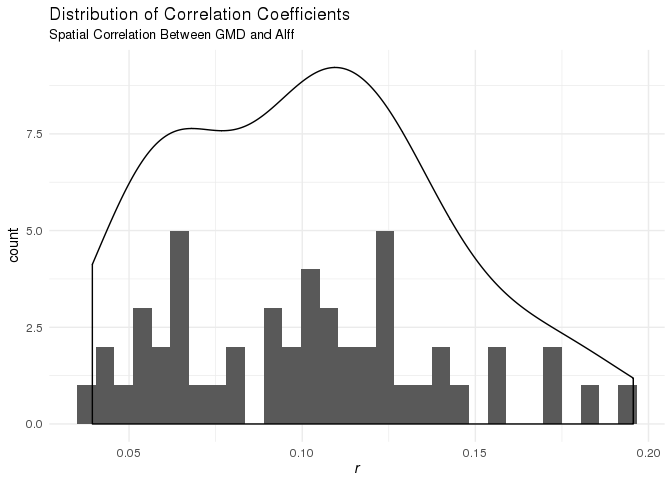
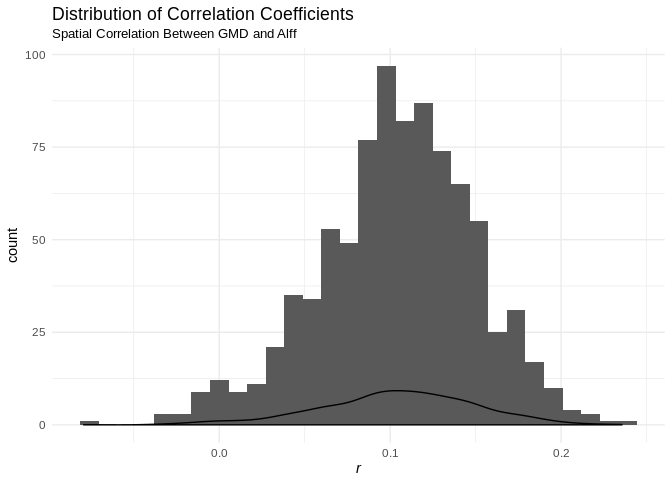
spin

diff --git a/code/Correlations/DensityPlots.md b/code/Correlations/DensityPlots.md
@@ -3,7 +3,7 @@ Spatial Correlation Density Plots
 Tinashe M. Tapera
 2018-02-05
 
-``` {.r}
+``` r
 suppressPackageStartupMessages({
   library(tidyr, quietly = TRUE)
   library(dplyr, quietly = TRUE)
@@ -15,25 +15,8 @@ suppressPackageStartupMessages({
   library(purrr, quietly = TRUE)
   library(ggpubr, quietly = TRUE)
 })
-```
-
-    ## Warning in .doLoadActions(where, attach): trying to execute load actions
-    ## without 'methods' package
-
-    ## Warning: replacing previous import by 'methods::slot<-' when loading
-    ## 'oro.nifti'
-
-    ## Warning: replacing previous import by 'methods::as' when loading
-    ## 'oro.nifti'
-
-    ## Warning: replacing previous import by 'methods::slotNames' when loading
-    ## 'oro.nifti'
-
-    ## Warning: package 'ggpubr' was built under R version 3.4.1
-
-``` {.r}
 set.seed(1000)
-SAMPLE <- TRUE # sample the full data if memory is limited e.g. not in qsub
+SAMPLE <- FALSE # sample the full data if memory is limited e.g. not in qsub
 ```
 
 Introduction
@@ -41,7 +24,7 @@ Introduction
 
 Here we visualise the relationship between GMD values and CBF, Alff, and Reho in the PNC sample for ISLA. We append to the previous work by calculating spatial correlation per participant and then plotting the distribution of these correlation coefficients. First, how to load the images and calculate spatial correlation.
 
-``` {.r}
+``` r
 # relevant paths
 gmd_path <- file.path("/data/joy/BBL/studies/pnc/n1601_dataFreeze/neuroimaging/t1struct/voxelwiseMaps_gmd")
 cbf_path <- file.path("/data/joy/BBL/studies/pnc/n1601_dataFreeze/neuroimaging/asl/voxelwiseMaps_cbf")
@@ -69,7 +52,7 @@ cbf_example <-
 
 Here we use the script `spatialcorr.sh` to calculate the spatial correlation for a participant's two images.
 
-``` {.r}
+``` r
 spatial_corr_script <- "/data/jux/BBL/projects/isla/code/Correlations/spatialcorr.sh"
 system(sprintf("%s %s %s %s",
   spatial_corr_script,
@@ -83,7 +66,7 @@ system(sprintf("%s %s %s %s",
 
 We can wrap this in an internal function like so:
 
-``` {.r}
+``` r
 calculate_spatial_corr <- function(img1_path, img2_path, mask_path){
 
   spatial_corr_script <- "/data/jux/BBL/projects/isla/code/Correlations/spatialcorr.sh"
@@ -103,12 +86,12 @@ calculate_spatial_corr(cbf_example$path, gmd_example$path, mask_path)
 
     ## [1] 0.2599
 
-GMD\~CBF
-========
+GMD~CBF
+=======
 
 We calculate the spatial correlation per participant between GMD and CBF.
 
-``` {.r}
+``` r
 # use the cbf sample
 cbf_sample <- read.csv("/data/jux/BBL/projects/isla/data/cbfSample.csv") %>%
   select(-X) %>%
@@ -151,7 +134,7 @@ gmd_cbf <- cbf_images %>%
 Plot
 ----
 
-``` {.r}
+``` r
 gmd_cbf %>%
   ggplot(aes(cor_coef)) +
     geom_histogram() +
@@ -167,12 +150,12 @@ gmd_cbf %>%
 
 ![](DensityPlots_files/figure-markdown_github/plot%20cbf-1.png)
 
-GMD\~Alff
-=========
+GMD~Alff
+========
 
 Now the correlation between GMD and Alff
 
-``` {.r}
+``` r
 # use the rest sample
 rest_sample <- read.csv("/data/jux/BBL/projects/isla/data/restSample.csv") %>%
   select(-X) %>%
@@ -217,7 +200,7 @@ gmd_alff <- alff_images %>%
 Plot
 ----
 
-``` {.r}
+``` r
 gmd_alff %>%
   ggplot(aes(cor_coef)) +
     geom_histogram() +
@@ -233,12 +216,12 @@ gmd_alff %>%
 
 ![](DensityPlots_files/figure-markdown_github/plot%20alff-1.png)
 
-GMD\~Reho
-=========
+GMD~Reho
+========
 
 Finally, the correlation between GMD and Reho
 
-``` {.r}
+``` r
 # gather images
 reho_path <- "/data/joy/BBL/studies/pnc/n1601_dataFreeze/neuroimaging/rest/voxelwiseMaps_reho"
 
@@ -267,7 +250,7 @@ gmd_reho <- reho_images %>%
 Plot
 ----
 
-``` {.r}
+``` r
 gmd_reho %>%
   ggplot(aes(cor_coef)) +
     geom_histogram() +
@@ -288,7 +271,7 @@ Overlayed Plot
 
 Now, for comparison, we can overlay the coefficient distributions to see if there are any differences between them.
 
-``` {.r}
+``` r
 gmd_cbf <- gmd_cbf %>%
   mutate(variables = "CBF")
 gmd_alff <- gmd_alff %>%
@@ -305,9 +288,39 @@ df %>%
     labs(
       title = "Distribution of Correlation Coefficients",
       subtitle = "Spatial Correlation Between GMD and Outcome Variable",
-      x = expression(italic("r")))
+      x = expression(italic("r"))
+    )
 ```
 
 ![](DensityPlots_files/figure-markdown_github/unnamed-chunk-2-1.png)
 
-title: "DensityPlots.R" author: "ttapera" date: "Tue Feb 5 16:41:07 2019" ---
+``` r
+df %>%
+  ggplot(aes(x = variables, y = cor_coef)) +
+    geom_boxplot(aes(fill = variables)) +
+    guides(fill = FALSE) +
+    labs(
+      title = "Boxplots of Correlation Coefficients",
+      subtitle = "Spatial Correlation Between GMD and Outcome Variable",
+      y = expression(italic("r"))
+    ) +
+    theme_minimal() +
+    coord_flip() +
+    NULL
+```
+
+![](DensityPlots_files/figure-markdown_github/unnamed-chunk-2-2.png)
+
+Session info:
+
+``` r
+print(R.version.string)
+```
+
+    ## [1] "R version 3.4.1 (2017-06-30)"
+
+``` r
+print(paste("Last Run:", format(Sys.time(), "%Y-%m-%d")))
+```
+
+    ## [1] "Last Run: 2019-02-05"
